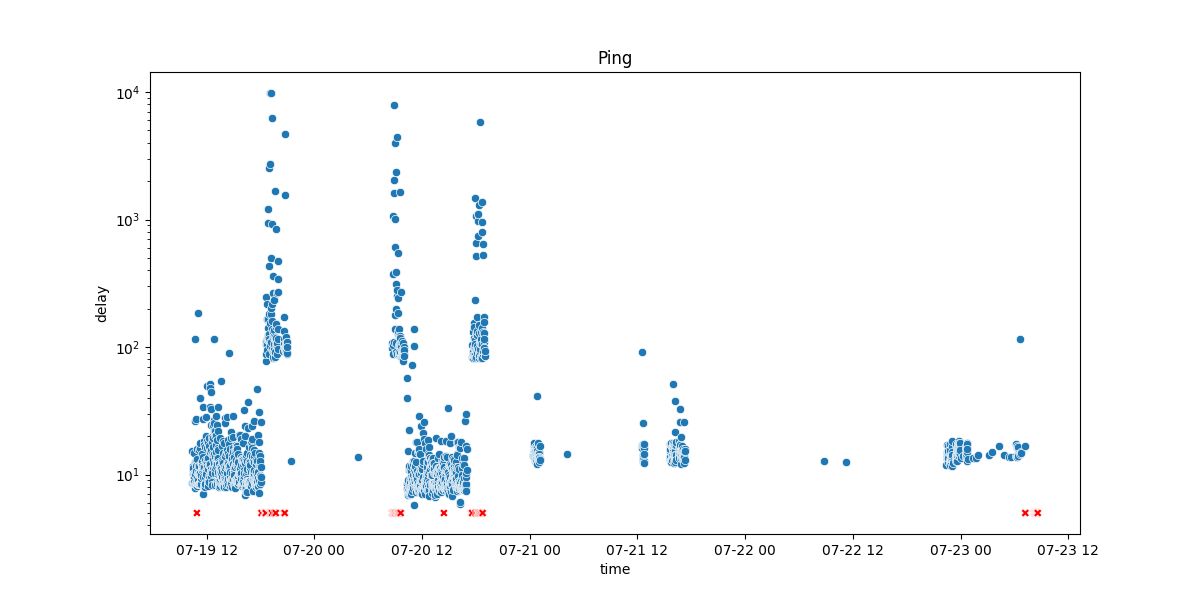
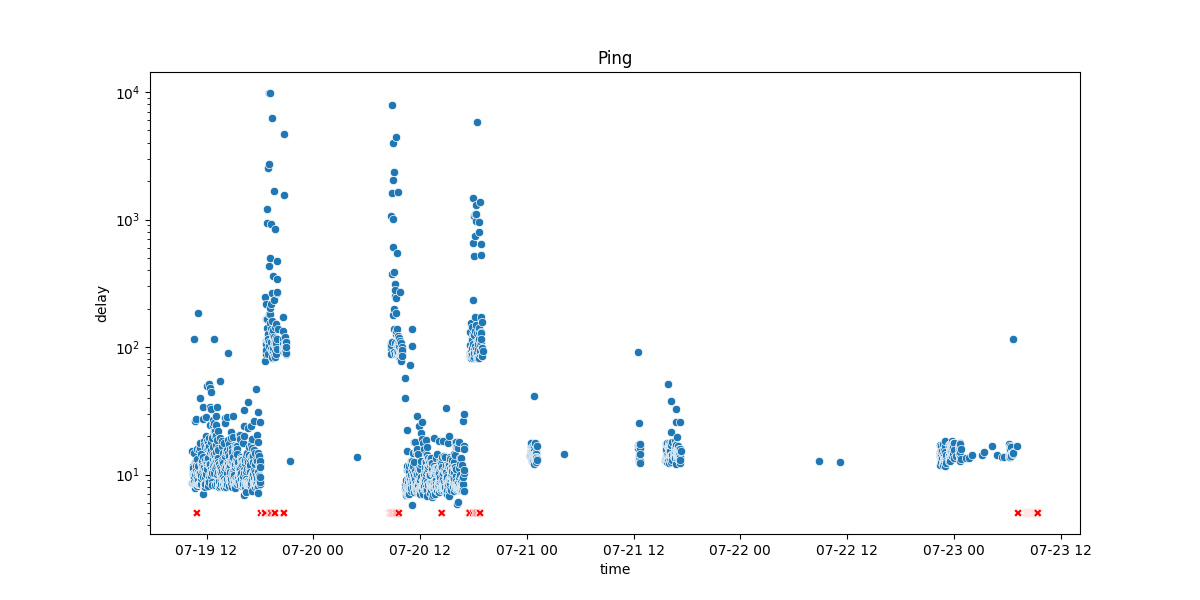
plotly version plot

diff --git a/dash.py b/dash.py
@@ -1,0 +1,20 @@
+import numpy as np
+import pandas as pd
+import matplotlib.pyplot as plt
+import plotly.express as px
+import plotly.graph_objects as go
+
+
+df = pd.read_csv("pings.csv")
+df['5'] = 5 # for the time-out pings to be visible on the plot 
+fig = go.Figure()
+
+trace_good = px.scatter(df[df['delay'] != np.inf], x='time', y='delay', log_y=True)
+trace_bad = px.scatter(df[df['delay'] == np.inf], x='time', y='5', log_y=True)
+trace_bad.update_traces(marker=dict(color='red', symbol='x'))
+
+fig.add_trace(trace_good.data[0])
+fig.add_trace(trace_bad.data[0])
+fig.update_layout(yaxis_type="log")
+
+fig.show()
